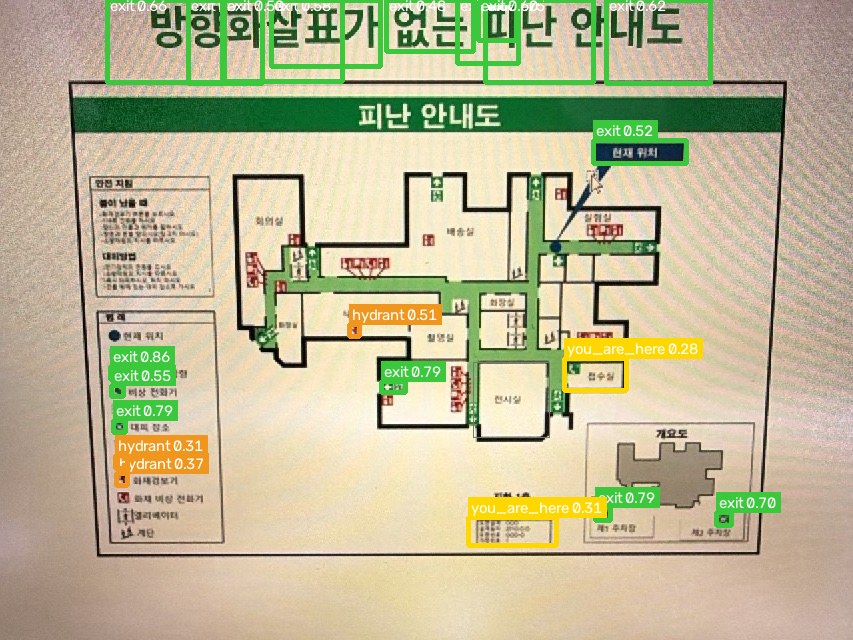
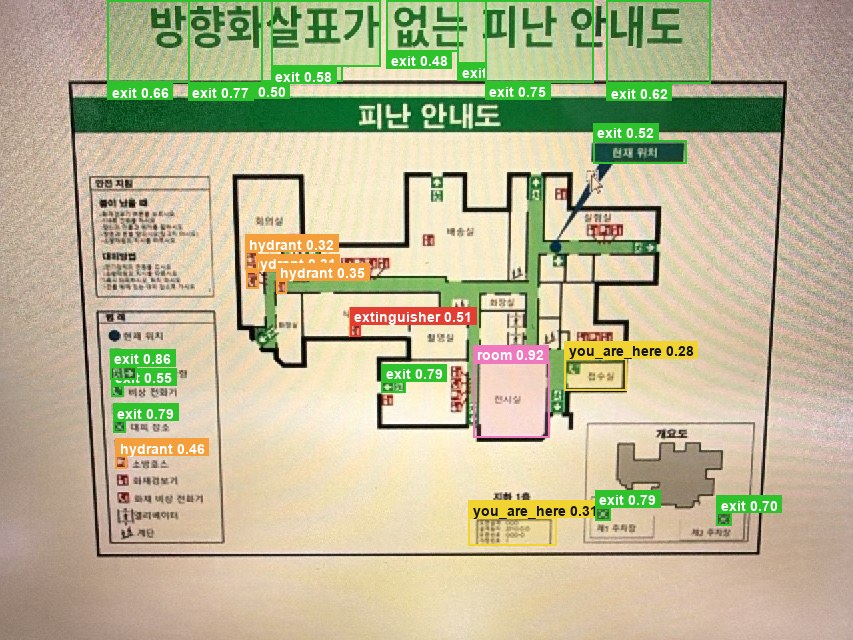
발표 문서의 수치와 출처를 저장소에서 다시 뽑아 맞춤
라운드 6을 붙이고 걸름망을 고쳤으니 실측 수치가 달라졌고, 학습 기록이 들어와
그동안 대조하지 못하던 값들을 확인할 수 있게 됐다. 문서를 실제와 맞췄다.

다시 잰 값 (촬영도면/draft-1-1.jpg, CPU)
- 해상도 비교: 768px 10개·0.41초 / 1280px 25개·1.22초 / 1920px 오탐 13개
- 걸름망: 25개 → 크기 11개·범례 4개 버림 → 실제 위치 10개 (비상구 4)
- 그림 두 장도 같은 결과로 다시 뽑았다

확인해서 고친 것
- "2부 lr0=0.002 · 60에폭"은 어느 노트북에도 어느 args.yaml 에도 없는
  숫자였다. 실제로는 2단계가 아니라 라운드 2·4·6에 걸친 다섯 번의
  이어학습이었고, 그 표로 바꿨다
- 좌우 뒤집기는 1부에서 이유까지 적어 껐는데 지금 가중치는 켜져 있다.
  라운드 4에서 파라미터를 빠뜨려 Ultralytics 기본값 0.5 가 되살아난 것이다.
  원칙을 뒤집은 게 아니라 기본값에 기댄 탓이라고 고쳐 적었다
- "검증·시험 분할 구성이 리포트에 없다"던 단서는 이제 분할 리포트가 있으므로
  실제 구성(350/75/75)으로 교체했다
- 재현율 1.000 은 합성 검증셋 기준임을 명시했다. 실제 도면은 라운드 2~4의
  학습에 사람 검수 라벨로 들어갔지만, 마지막 라운드 6은 합성 500장만 썼다
- 학습 데이터 절의 100장이 1부 것이고 서비스 가중치는 500장으로 학습됐다는
  구분을 넣었다

각주를 재현 가능 여부로 나눴다. 6개가 저장소만으로 재현되고, 남은 2개는
ml-colab.zip 과 촬영도면/ 로 둘 다 용량 때문에 .gitignore 에 있다.
backend/data/plans.json 에 박힌 사진 10장은 다른 건물의 안내도라 대신
쓸 수 없다는 것도 확인해 적었다.

diff --git a/docs/ai-training/index.html b/docs/ai-training/index.html
@@ -489,16 +489,16 @@
     <p class="lede">벽에 걸린 피난안내도 사진 한 장에서 비상구·계단·소화기를 찾아, 대피 경로 그래프의 좌표로 옮겨 적는 YOLO 탐지기. 학습 데이터, 검증 지표, 실제 사진에서의 거동을 모았다.</p>
     <div class="stamp">
       <span>YOLO11n · 8 클래스</span>
-      <span>합성 100장 사전학습 → 실촬 이어학습</span>
-      <span>측정일 2026-08-20</span>
+      <span>합성 사전학습 → 실제 도면 사람검수 라벨 → 합성으로 균형 보정</span>
+      <span>측정일 2026-08-21</span>
     </div>
   </header>
 
   <div class="kpis" style="margin-top:2.5rem">
     <div class="kpi"><b>8</b><span>탐지 클래스<small>비상구·계단·승강기·소화기·소화전·현위치·문·실</small></span></div>
-    <div class="kpi"><b>3,142</b><span>학습 라벨 상자<small>합성 도면 100장 · 장당 31개</small></span></div>
+    <div class="kpi"><b>3,142</b><span>1부 학습 라벨 상자<small>합성 100장 · 장당 31개<br>라운드 6은 500장 · 14,322개</small></span></div>
     <div class="kpi"><b>1.000</b><span>검증 재현율 (8클래스 중 6)<small>나머지 2개도 0.991</small></span></div>
-    <div class="kpi"><b>1.5초</b><span>사진 한 장 추론<small>CPU · 1280px · 모델 2벌 합산</small></span></div>
+    <div class="kpi"><b>1.2초</b><span>사진 한 장 추론<small>CPU · 1280px · 모델 3벌 합산</small></span></div>
   </div>
 
   <!-- ============================================ 왜 -->
@@ -532,6 +532,10 @@
     <div class="sec-head"><span class="tag">학습 데이터</span><h2>합성 도면 100장을 직접 그려서 만들었다</h2></div>
 
     <p>도면을 <strong>먼저 그리고</strong> 그리는 순간의 좌표를 그대로 정답으로 적는 방식이라 라벨 오차가 0이다. 사전학습용으로는 이 성질이 중요하다 — 실제 사진 100장에 밑라벨을 깔아 줄 모델이 애매한 라벨로 배우면 밑라벨도 애매해지고, 사람이 고칠 것이 늘어난다.</p>
+
+    <div class="note">
+      <p><strong>이 100장은 1부(사전학습) 데이터셋이다.</strong> 지금 서비스에 붙어 있는 가중치는 여기서 출발했지만, 마지막 학습(라운드 6)에서는 같은 방식으로 만든 <b>500장</b>(학습 350 · 검증 75 · 시험 75)을 썼다. 뒤에 나오는 클래스별 지표는 그 500장 기준이다. 생성기는 <code>ml/generate_dataset.py</code>에 있다.</p>
+    </div>
 
     <div class="scroller">
       <table>
@@ -578,27 +582,44 @@
 
   <!-- ============================================ 학습 -->
   <section>
-    <div class="sec-head"><span class="tag">학습 절차</span><h2>합성으로 눈을 뜨고, 실촬로 현장에 맞춘다</h2></div>
+    <div class="sec-head"><span class="tag">학습 절차</span><h2>합성으로 눈을 뜨고, 실제 도면으로 다듬는다</h2></div>
 
-    <p>합성 도면은 배치와 기호 규칙까지는 실제와 같지만 종이 질감·유리 반사·형광등 빛·비스듬한 각도를 흉내내지 못한다. 그래서 1부만 돌린 모델은 실제 사진에서 성능이 떨어진다. <strong>1부는 2부의 라벨링 시간을 17시간에서 3시간으로 줄이기 위한 발판이다</strong> — 실제 100장을 맨손으로 라벨링하면 장당 30개씩 3,000개를 찍어야 하지만, 1부 모델이 밑라벨을 깔아 주면 사람은 틀린 것만 고친다.</p>
+    <p>합성 도면은 배치와 기호 규칙까지는 실제와 같지만 종이 질감·유리 반사·형광등 빛·비스듬한 각도를 흉내내지 못한다. 그래서 합성으로 눈을 뜨게 한 뒤, <strong>실제 대피안내도를 모아 사람이 검수한 라벨로 이어학습</strong>했다. 다만 마지막 라운드는 클래스 균형을 맞추려고 다시 합성으로 돌아갔다 — 그래서 지표를 읽는 법이 달라진다.</p>
+
+    <div class="note warn">
+      <p><strong>지표는 합성 검증셋에서 잰 값이다.</strong> 실제 도면은 라운드 2~4의 학습에 들어갔지만(사람이 검수한 라벨), <b>마지막 라운드 6의 학습·검증 500장은 전부 합성</b>이다 — 검증 75장 하나하나에 8클래스가 정확히 같은 개수로 들어 있고 문(door)과 실(room) 개수가 딱 일치한다. 생성기의 규칙이지 실제 도면에서 나올 분포가 아니다. <b>뒤에 나오는 재현율 1.000을 실제 사진에서의 성능으로 읽으면 안 된다</b> — 실제 사진에서의 거동은 실측 절에서 따로 잰다.</p>
+    </div>
 
     <div class="stages">
       <div class="stage">
         <div class="idx">1부</div>
         <div>
-          <h4>합성 100장 사전학습</h4>
+          <h4>합성 도면 사전학습</h4>
           <p><code>yolo11n</code> · 150 에폭 · <code>imgsz=800</code> · <code>batch=8</code> · <code>patience=40</code> · 증강 <code>degrees=5.0</code> <code>translate=0.08</code> <code>scale=0.35</code> <code>mosaic=0.7</code> <code>close_mosaic=20</code>. 좌우·상하 뒤집기는 <b>껐다</b> — 도면을 뒤집으면 글자가 거울상이 되어 실제로는 없는 그림을 배운다. T4 기준 20~30분.</p>
         </div>
       </div>
       <div class="stage">
         <div class="idx">2부</div>
         <div>
-          <h4>실제 피난안내도 이어학습</h4>
-          <p>같은 안내도를 각도·거리·조명을 바꿔 3~4장씩 찍어 모은다(유리 반사가 든 사진도 일부러 남긴다). 1부 모델로 밑라벨을 깔고 사람이 검수한 뒤, 1부 가중치에서 출발해 <code>lr0=0.002</code> · 60 에폭. <b>점수는 실제 사진만 모은 검증 목록으로 다시 잰다</b> — 합성이 섞인 점수는 실제 성능보다 항상 높게 나온다.</p>
+          <h4>라운드를 거듭하며 조여 나간다</h4>
+          <p>1부 가중치를 한 번에 완성시키지 않고, 앞 라운드 결과를 받아 <b>학습률과 증강을 조금씩 낮추며</b> 다섯 번에 나눠 이어학습했다. 이어학습에서 크게 흔들면 앞 단계가 배운 것이 흐려지기 때문이다. 아래 값은 <code>ml/training-records/*/args.yaml</code>에 남은 실제 설정이다.</p>
+          <div class="scroller">
+            <table>
+              <thead><tr><th>라운드</th><th class="wrap-cell">학습 데이터</th><th class="num">lr0</th><th class="num">에폭</th><th class="num">imgsz</th><th>낸 가중치</th></tr></thead>
+              <tbody>
+                <tr><td>2 stage_a</td><td class="wrap-cell">실제 대피안내도 + <b>사람 검수 라벨</b></td><td class="num">0.0008</td><td class="num">50</td><td class="num">960</td><td></td></tr>
+                <tr><td>4 stage_a</td><td class="wrap-cell">라운드 2 사람검수 라벨 + 계단 보강 합성</td><td class="num">0.0005</td><td class="num">25</td><td class="num">768</td><td></td></tr>
+                <tr><td>4 stage_b</td><td class="wrap-cell">위와 같음</td><td class="num">0.00015</td><td class="num">35</td><td class="num">768</td><td><code>round2_best.pt</code></td></tr>
+                <tr><td>6 stage_a</td><td class="wrap-cell">합성 500장 (전 클래스 균형)</td><td class="num">0.001</td><td class="num">18</td><td class="num">896</td><td><code>stage_a_best.pt</code></td></tr>
+                <tr><td>6 stage_b</td><td class="wrap-cell">위와 같음</td><td class="num">0.0002</td><td class="num">30</td><td class="num">896</td><td><code>stage_b_best.pt</code></td></tr>
+              </tbody>
+            </table>
+          </div>
+          <p>라운드 3에서 공개 라이선스 실제 대피안내도를 더 모았고, 갈래가 둘이었다 — 사람이 검수한 <code>critical</code>과 자동 pseudo-label만 쓴 <code>auto</code>다. 노트북이 직접 적어 두었듯 <b>auto 갈래의 점수는 검증셋마저 자동 라벨이라 참고값</b>이다. 라운드 5는 비상구 재현율만 따로 올려 보려던 갈래인데 라운드 6이 그 역할을 대신해 서비스에는 쓰지 않았다. 기록은 모두 <code>ml/training-records/</code>에 남겨 두었다.</p>
         </div>
       </div>
       <div class="stage">
-        <div class="idx">라운드</div>
+        <div class="idx">분리</div>
         <div>
           <h4>클래스를 나눠 여러 벌로</h4>
           <p>한 벌로 여덟 종류를 다 학습시켰더니 일부 클래스가 서로를 잡아먹었다. 그래서 라운드를 나눠 학습시키고 <b>각 라운드가 자신 있는 클래스만</b> 맡는다. 결과를 합친 뒤 클래스별 NMS(IoU 0.5)로 중복을 정리한다.</p>
@@ -609,6 +630,33 @@
     <div class="note warn">
       <p><strong>클래스 순서 0~7은 모든 모델이 같아야 한다.</strong> 순서가 한 칸 밀리면 "비상구"라고 찍은 것이 실제로는 "소화기"가 되고, 그 오류는 도면이 저장된 뒤에야 드러난다. 그래서 서비스가 뜰 때 순서를 검사하고, 어긋나면 아예 뜨지 않는다.</p>
     </div>
+
+    <h3>실제로 서비스에 붙은 가중치 세 벌은 이렇게 학습됐다</h3>
+
+    <p>아래는 <strong>가중치 파일 안에 저장된 <code>train_args</code>를 그대로 읽은 값</strong>이고, <code>ml/training-records/</code>의 <code>args.yaml</code>과 11개 항목이 전부 일치하는 것을 확인했다. 학습 노트북도 <code>ml/notebooks/</code>에 있으므로 어느 실행이 어느 가중치를 냈는지까지 따라갈 수 있다.</p>
+
+    <div class="scroller">
+      <table>
+        <thead>
+          <tr>
+            <th>가중치</th><th>이어받은 곳</th>
+            <th class="num">에폭</th><th class="num">imgsz</th><th class="num">lr0</th>
+            <th class="num">동결</th><th class="num">mosaic</th><th class="num">fliplr</th><th>학습일</th>
+          </tr>
+        </thead>
+        <tbody>
+          <tr><td><code>round2_best.pt</code></td><td>round4 <code>stage_a</code></td><td class="num">35</td><td class="num">768</td><td class="num">0.00015</td><td class="num">0</td><td class="num">1.0</td><td class="num">0.5</td><td>2026-08-17</td></tr>
+          <tr><td><code>stage_a_best.pt</code></td><td><code>round2_best.pt</code></td><td class="num">18</td><td class="num">896</td><td class="num">0.001</td><td class="num">10</td><td class="num">0.2</td><td class="num">0.15</td><td>2026-08-18</td></tr>
+          <tr><td><code>stage_b_best.pt</code></td><td><code>stage_a_best.pt</code></td><td class="num">30</td><td class="num">896</td><td class="num">0.0002</td><td class="num">0</td><td class="num">0.1</td><td class="num">0.1</td><td>2026-08-18</td></tr>
+        </tbody>
+      </table>
+    </div>
+
+    <p>세 벌 모두 <code>yolo11n</code> 구조(파라미터 2,591,400개)에 <code>nc=8</code>이고, 앞 단계 가중치를 이어받아 학습됐다. 뒤로 갈수록 학습률과 증강을 줄이는데, 이어학습에서 증강을 세게 두면 앞 단계가 배운 것이 흐려지기 때문이다.</p>
+
+    <div class="note warn">
+      <p><strong>좌우 뒤집기가 어느 라운드에서 되살아났다.</strong> 1부 노트북에는 <code>fliplr=0.0</code>이 이유까지 주석으로 적혀 있는데, 서비스에 붙은 세 벌은 모두 켜져 있다(0.5 · 0.15 · 0.1). 노트북을 따라가 보면 원칙을 뒤집은 것이 아니라 <b>라운드 4에서 이 한 줄을 빠뜨려 Ultralytics 기본값 <code>0.5</code>가 되살아난 것</b>이었다(라운드 3까지는 <code>0.0</code> 명시, 라운드 6은 <code>.15</code>·<code>.10</code>으로 적었으나 0으로 되돌리지 않음). 도면을 좌우로 뒤집으면 글자가 거울상이 되므로 끄는 쪽이 맞다. 상하 뒤집기(<code>flipud</code>)는 세 벌 모두 0이다. <b>다음 학습에서는 기본값에 기대지 말고 명시해야 한다</b> — 기본값에 기댔기 때문에 이 일이 났다.</p>
+    </div>
   </section>
 
   <!-- ============================================ 라우터 -->
@@ -616,6 +664,8 @@
     <div class="sec-head"><span class="tag">라운드 6</span><h2>클래스별로 담당 모델을 배정했다</h2></div>
 
     <p>최신 학습(라운드 6)에서는 모델 세 벌을 놓고 <strong>클래스마다 가장 잘하는 한 벌을 골라</strong> 라우팅 표로 굳혔다. 확신도 문턱은 전 클래스 공통 0.75다.</p>
+
+    <p><strong>이 표가 지금 서비스에 붙어 있는 것 그대로다.</strong> 배정을 코드에 박지 않고 <code>ml/detector/models/class_router.json</code>을 읽어 따르게 했다 — 재학습으로 담당이 바뀌었는데 파이썬 상수를 같이 고치는 걸 잊으면, 서비스는 멀쩡히 뜨고 틀린 모델이 낸 결과가 그대로 편집기로 간다. 그 어긋남은 아무도 알아채지 못한다. <code>GET /health</code>가 지금 적용된 담당 표를 그대로 돌려준다.</p>
 
     <div class="scroller">
       <table>
@@ -646,7 +696,7 @@
     </div>
 
     <div class="note warn">
-      <p><strong>이 표는 상한으로 읽어야 한다.</strong> 라운드 6 리포트에는 검증·시험 분할의 구성이 담겨 있지 않고, 학습 데이터의 뼈대는 합성 도면이다. 합성이 섞인 점수는 실제 성능보다 항상 높게 나온다 — 실제 사진에서의 거동은 아래 절에서 따로 잰다.</p>
+      <p><strong>이 표는 상한으로 읽어야 한다.</strong> 분할 구성은 이제 저장소에 있다(<code>ml/training-records/data/round6_split_report.json</code>) — 학습 350장 · 검증 75장 · 시험 75장이고, 위 표의 TP+FN 이 그 분할의 상자 수와 <b>8클래스 × 검증·시험 16개 값 전부</b> 맞는다. 다만 <b>그 500장이 모두 합성 도면이다</b> — 검증 75장 하나하나에 8클래스가 빠짐없이 들어 있는데, 실제 촬영본에서는 그런 분포가 나오지 않는다. 합성이 섞인 점수는 실제 성능보다 항상 높게 나온다 — 실제 사진에서의 거동은 아래 절에서 따로 잰다.</p>
     </div>
   </section>
 
@@ -661,13 +711,13 @@
       <table>
         <thead><tr><th>추론 해상도</th><th class="num">탐지 수</th><th class="num">비상구 최고 확신도</th><th class="num">CPU 소요</th></tr></thead>
         <tbody>
-          <tr><td>768 px</td><td class="num">12</td><td class="num">0.529</td><td class="num">0.62초</td></tr>
-          <tr><td><b>1280 px</b> <span class="pill ok">채택</span></td><td class="num">22</td><td class="num"><b>0.864</b></td><td class="num">1.46초</td></tr>
+          <tr><td>768 px</td><td class="num">10</td><td class="num">0.529</td><td class="num">0.41초</td></tr>
+          <tr><td><b>1280 px</b> <span class="pill ok">채택</span></td><td class="num">25</td><td class="num"><b>0.864</b></td><td class="num">1.22초</td></tr>
         </tbody>
       </table>
     </div>
 
-    <p>1920까지 올리면 탐지가 더 늘지만 <code>you_are_here</code> 오탐이 폭발한다(실제 1개 → 21개). 1280이 지금 가중치에서의 균형점이다.</p>
+    <p>1920까지 올리면 탐지가 더 늘지만 <code>you_are_here</code> 오탐이 폭발한다(실제 1개 → 13개). 1280이 지금 가중치에서의 균형점이다.</p>
 
     <h3>모델이 배운 적 없는 것 — 제목과 범례</h3>
     <p>모델은 초록 픽토그램을 찾도록 학습됐고 실제로 잘 찾는다. 문제는 도면에 픽토그램처럼 생긴 것이 세 군데 있다는 점이다: <b>도면 안</b>(우리가 원하는 것), <b>범례</b>("■ 비상구 방향" 같은 설명), <b>제목·초록 띠</b>(초록 바탕이라 통째로 비상구로 잡힌다). 뒤 둘은 모델이 못 배운 것이 아니라 <strong>아무도 가르친 적이 없는 구분</strong>이다.</p>
@@ -676,14 +726,14 @@
 
     <div class="pair">
       <figure>
-        <div class="badge-row"><span class="badge before">걸름망 전</span><span class="badge">탐지 22개</span></div>
+        <div class="badge-row"><span class="badge before">걸름망 전</span><span class="badge">탐지 25개</span></div>
         <img src="figs/detect-draft-1-1.jpg" alt="실제 피난안내도 사진에 원시 탐지 결과를 그린 이미지. 제목 글자와 범례에도 비상구 상자가 잡혀 있다">
         <figcaption>모델이 낸 그대로. 제목 글자 "방향화살표가 없는 피난 안내도"가 통째로 비상구로 잡히고, 왼쪽 범례 칸의 설명용 아이콘이 <b>확신도 0.86</b>으로 도면 안 픽토그램보다 더 세게 잡혔다.</figcaption>
       </figure>
       <figure>
-        <div class="badge-row"><span class="badge after">걸름망 후</span><span class="badge">남은 것 6개</span></div>
+        <div class="badge-row"><span class="badge after">걸름망 후</span><span class="badge">남은 것 10개</span></div>
         <img src="figs/filtered-draft-1-1.jpg" alt="같은 사진에 크기·범례 걸름망을 적용한 뒤의 탐지 결과">
-        <figcaption>크기로 11개, 범례 영역에서 5개를 버려 <b>실제 위치 6개</b>만 남았다 — 비상구 4, 소화전 1, 실 1. 버린 개수와 이유는 편집기에 경고로 함께 뜬다.</figcaption>
+        <figcaption>크기로 11개, 범례 영역에서 4개를 버려 <b>실제 위치 10개</b>가 남았다 — 비상구 4, 소화기 1, 소화전 4, 실 1. 버린 개수와 이유는 편집기에 경고로 함께 뜬다.</figcaption>
       </figure>
     </div>
 
@@ -722,23 +772,28 @@
       </figure>
       <div>
         <ul class="tight">
-          <li><b>도면 양식이 바뀌면 재현율이 떨어진다.</b> 2부 실촬 데이터를 건물 대여섯 곳으로 넓히는 것이 다음 과제다. 비상구 재현율이 0.9 아래인 양식은 현장에 쓰지 않는다.</li>
+          <li><b>도면 양식이 바뀌면 재현율이 떨어진다.</b> 실제 도면을 학습에 넣긴 했지만 <b>원본이 13종뿐</b>이라(그것을 촬영환경별로 208장으로 늘린 것) 학습에 없던 양식은 여전히 약하다 — 위 실패 사례도 기호 양식이 달랐다. 라운드 7에서 공공기관 공개 피난안내도로 원본 수를 늘리고 있고, 사람이 검수해 정답을 확정한 뒤 이어학습하는 것이 다음 과제다. <b>비상구 재현율이 0.9 아래인 양식은 현장에 쓰지 않는다.</b></li>
+          <li><b>마지막 라운드는 합성으로 되돌아갔다.</b> 라운드 6은 클래스 균형을 맞추려고 합성 500장만 썼다. <code>round2_best.pt</code>(비상구·계단·승강기·현위치·실 담당)는 그 앞 라운드의 실제 도면 학습을 물려받았지만, <code>stage_a</code>·<code>stage_b</code>(문·소화기·소화전)의 마지막 조정은 합성에서만 이뤄졌다.</li>
           <li><b>비상계단을 <code>stair</code>로 찍어 온다.</b> 대피 목표가 되는 건 <code>exit</code>뿐이라 그대로 두면 갈 곳이 없어진다. <code>exit</code>이 하나도 없으면 <code>stair</code>를 승격시키되 반드시 경고한다 — 옥상 전용 계단이 섞였을 수 있고 그건 사람만 안다.</li>
           <li><b>축척은 판독하지 않는다.</b> 문 폭으로 어림할 수는 있지만 두 배 틀리면 "8미터 직진"이 16미터가 되어 시각장애인이 모퉁이를 지나친다. 이 숫자 하나는 사람이 직접 넣는다.</li>
-          <li><b>서비스에 붙은 가중치는 아직 라운드 6이 아니다.</b> 현재 <code>ml/detector/models</code>의 두 파일은 SHA-256이 같은 동일 가중치라, 실질적으로 한 벌을 두 번 돌리고 있다. 라운드 6의 <code>stage_a</code>·<code>stage_b</code>와 라우팅 표를 붙이는 것이 바로 다음 작업이다.</li>
+          <li><b>데이터셋 원본 이미지는 여전히 저장소 밖이다.</b> 생성기(<code>ml/generate_dataset.py</code>)가 들어와 <b>같은 시드로 다시 만들 수는</b> 있지만, 라운드 6이 쓴 500장은 그 생성기의 기본값(100장)과 다른 설정으로 만든 것이라 그대로 재현되지 않는다.</li>
+          <li><b>서비스 문턱은 라우팅 표의 0.75가 아니라 0.25다.</b> 위 지표는 문턱 0.75에서 잰 값이지만, 반사광과 기울기가 든 실제 사진은 확신도가 통째로 내려가서 같은 문턱을 대면 실제 비상구가 잘려 나간다. 서비스는 낮게 잡아 많이 건지고 걸러내는 일을 걸름망과 사람에게 맡긴다 — 대신 각 탐지가 검증 문턱을 넘었는지를 <code>aboveThreshold</code>로 함께 내려보낸다. 재현율은 문턱을 낮췄으니 위 값 아래로 내려가지 않지만, <b>정밀도는 위 표보다 낮다.</b></li>
         </ul>
       </div>
     </div>
   </section>
 
   <footer>
-    <p>이 문서의 수치는 저장소에서 직접 뽑아 다시 계산한 것이다.</p>
+    <p>이 문서의 수치는 옮겨 적은 것이 아니라 <strong>다시 계산한 것</strong>이다. 그래도 전부가 저장소만으로 재현되지는 않으니 어느 쪽인지 함께 적는다 — 재현할 수 없는 값을 재현할 수 있는 값과 같은 얼굴로 두면, 나중에 그 숫자를 믿고 재학습하는 사람이 생긴다.</p>
     <ul>
-      <li>클래스 분포·데이터셋 통계 — <code>ml-colab.zip</code>의 라벨 3,142줄을 다시 집계</li>
-      <li>클래스별 지표 — <code>round6_models_for_vscode.zip / allclass_selection_report.json</code></li>
-      <li>학습 설정 — <code>ml/train_colab.ipynb</code></li>
-      <li>실측 탐지·해상도 비교·걸름망 — <code>촬영도면/</code>의 사진으로 2026-08-20 CPU에서 직접 실행</li>
-      <li>걸름망 규칙 — <code>backend/src/planReader/graph.js</code>의 판정을 그대로 옮겨 적용</li>
+      <li><span class="pill ok">재현됨</span> 클래스별 지표 — <code>ml/detector/models/allclass_selection_report.json</code></li>
+      <li><span class="pill ok">재현됨</span> 서비스 가중치의 학습 설정 — <code>ml/detector/models/*.pt</code> 안의 <code>train_args</code>. <code>ml/training-records/*/args.yaml</code>과 11개 항목이 일치함을 확인</li>
+      <li><span class="pill ok">재현됨</span> 라운드별 이어학습 설정과 수렴 — <code>ml/training-records/*/args.yaml</code>과 <code>results.csv</code></li>
+      <li><span class="pill ok">재현됨</span> 라운드 6 분할 구성 — <code>ml/training-records/data/round6_split_report.json</code></li>
+      <li><span class="pill ok">재현됨</span> 1부 학습 설정과 증강값 — <code>ml/train_colab.ipynb</code>. 라운드별 노트북은 <code>ml/notebooks/</code></li>
+      <li><span class="pill ok">재현됨</span> 걸름망 규칙 — <code>backend/src/planReader/graph.js</code>의 판정을 그대로 옮겨 적용</li>
+      <li><span class="pill mid">저장소 밖</span> 클래스 분포·데이터셋 통계 — <code>ml-colab.zip</code>의 라벨 3,142줄을 집계. 생성기(<code>ml/generate_dataset.py</code>)는 들어왔으므로 같은 시드로 다시 만들 수는 있지만, 집계한 그 꾸러미 자체는 <code>.gitignore</code>에 있다</li>
+      <li><span class="pill mid">저장소 밖</span> 실측 탐지·해상도 비교·걸름망 그림 — <code>촬영도면/</code>의 사진으로 2026-08-21 CPU에서 직접 실행. 이 폴더도 <code>.gitignore</code>에 있다(<code>backend/data/plans.json</code>에 박힌 사진들은 <b>다른 건물의 안내도</b>라 대신 쓸 수 없다)</li>
     </ul>
   </footer>
 </div>

diff --git a/docs/README.md b/docs/README.md
@@ -15,17 +15,43 @@ npm run docs     # http://localhost:3030
 
 ## ai-training/ 의 그림은 어디서 나왔나
 
-`figs/` 의 다섯 장은 손으로 그린 것이 아니라 저장소의 데이터·가중치로 **다시 만든 것**이다.
+`figs/` 의 다섯 장은 손으로 그린 것이 아니라 데이터·가중치로 **다시 만든 것**이다.
 숫자를 고치거나 그림을 새로 뽑아야 하면 아래를 다시 돌리면 된다.
 
-| 그림 | 만든 방법 |
-| --- | --- |
-| `synthetic-samples.jpg`, `label-zoom.jpg` | `ml-colab.zip` 의 합성 도면과 YOLO 라벨을 겹쳐 그림 |
-| `detect-draft-*.jpg` | `ml/detector` 의 가중치로 `촬영도면/` 사진을 추론 (imgsz 1280, conf 0.25) |
-| `filtered-draft-*.jpg` | 위 결과에 `backend/src/planReader/graph.js` 의 걸름망(크기·범례)을 그대로 적용 |
+| 그림 | 만든 방법 | 재료가 저장소에 |
+| --- | --- | --- |
+| `synthetic-samples.jpg`, `label-zoom.jpg` | `ml-colab.zip` 의 합성 도면과 YOLO 라벨을 겹쳐 그림 | 없음 |
+| `detect-draft-*.jpg` | `ml/detector` 의 가중치로 `촬영도면/` 사진을 추론 (imgsz 1280, conf 0.25) | 가중치만 |
+| `filtered-draft-*.jpg` | 위 결과에 `backend/src/planReader/graph.js` 의 걸름망(크기·범례)을 그대로 적용 | 가중치·규칙만 |
 
-지표 표는 `round6_models_for_vscode.zip / allclass_selection_report.json`,
-학습 설정은 `ml/train_colab.ipynb` 에서 옮겨 적었다. 출처는 문서 맨 아래에도 적어 두었다.
+**`ml-colab.zip` 과 `촬영도면/` 은 `.gitignore` 에 있다** — 새로 클론한 사람은 그림을 다시
+뽑을 수 없다. 두 폴더가 없어도 문서는 그대로 열리지만(그림이 `figs/` 에 이미 있으므로),
+숫자를 고치려면 원본을 가진 사람이 돌려야 한다. `backend/data/plans.json` 에 박힌 사진
+10장으로 대신할 수는 없다 — **다른 건물의 안내도라 문서의 그림과 이어지지 않는다.**
+
+지표 표는 `ml/detector/models/allclass_selection_report.json`, 서비스에 붙은 가중치의
+학습 설정은 **가중치 파일 안의 `train_args`** 에서 읽어 옮겼다. 다시 뽑으려면:
+
+```bash
+cd ml/detector && .venv/Scripts/python -c "import torch; print(torch.load('models/round2_best.pt', map_location='cpu', weights_only=False)['train_args'])"
+```
+
+학습 노트북과 합성 생성기는 `ml/` 에 있다 — 무엇이 어느 가중치를 냈는지는
+[../ml/README.md](../ml/README.md) 에 정리해 두었다. 1부 설정(150에폭 · `imgsz=800` ·
+`fliplr=0.0`)은 `ml/train_colab.ipynb` 과 정확히 일치하는 것을 확인했다.
+
+라운드별 이어학습 설정은 `ml/training-records/*/args.yaml` 에서 그대로 옮겼다. 문서가
+전에 "2부 · `lr0=0.002` · 60에폭"이라고 적어 둔 값은 **어느 노트북에도 어느 `args.yaml`에도
+없었다** — 실제로는 2단계가 아니라 라운드 2·4·6에 걸친 다섯 번의 이어학습이었고, 지금은
+그 실제 값으로 바뀌어 있다.
+
+같은 확인 과정에서 나온 정정 하나 더: 실제 대피안내도는 **라운드 2~4의 학습에 들어갔지만**
+(원본 13종을 촬영환경별로 208장으로 늘린 것, 사람이 검수한 라벨), **마지막 라운드 6의
+학습·검증 500장은 전부 합성**이다. 그래서 재현율 1.000은 합성 검증셋 기준이지 실제
+사진에서의 성능이 아니다. 문서의 도장·학습 절차 절·고지가 이 구분에 맞춰 고쳐져 있고,
+근거는 [../ml/README.md](../ml/README.md) 의 "실제 사진은 어디까지 들어갔나"에 있다.
+
+나머지 출처는 문서 맨 아래에 재현 가능 여부와 함께 적어 두었다.
 
 `index.html` 은 그림을 `figs/` 에서 상대경로로 읽는 자족 문서다. 웹으로 공유한 사본은
 같은 내용에 그림만 data URI 로 심어 한 파일로 만든 것이다.
